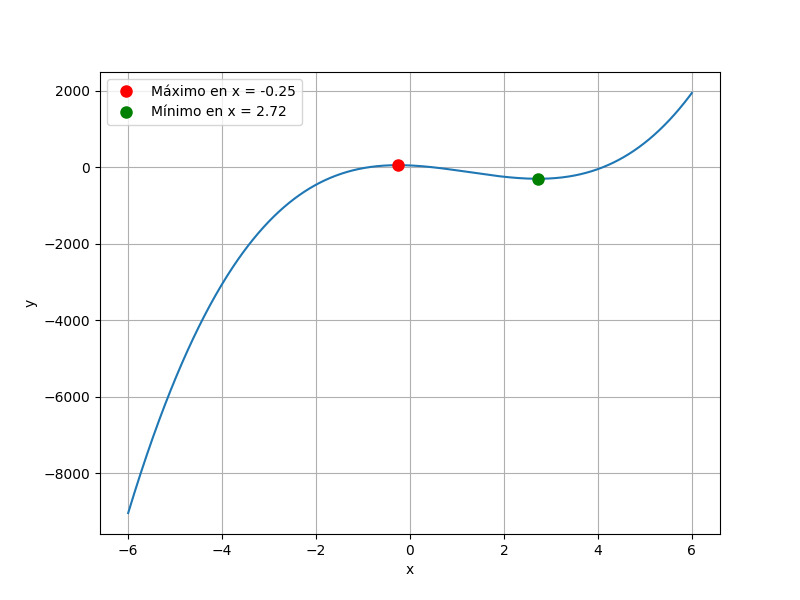
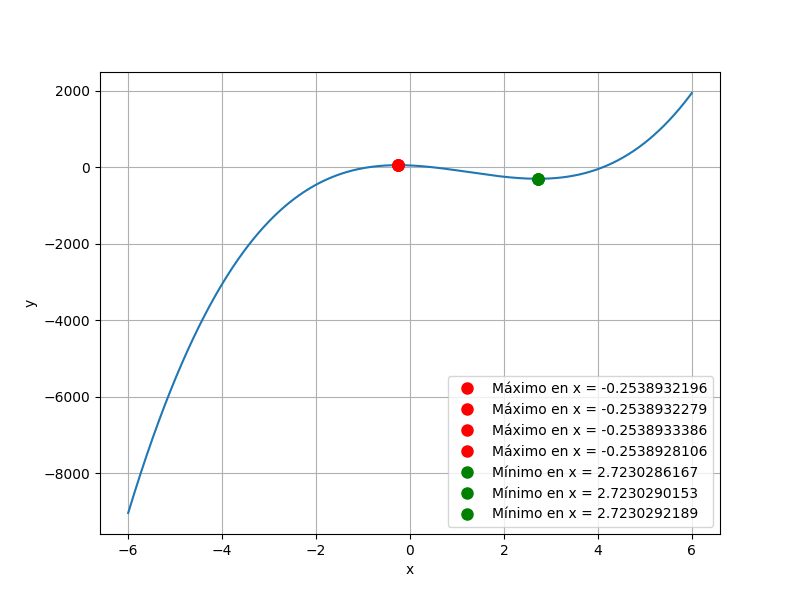
more points in problem1

Changed region(s): [[0.5625, 0.63, 0.9062, 0.87], [0.125, 0.12, 0.375, 0.21]]

diff --git a/Lab3/problema2.py b/Lab3/problema2.py
@@ -66,14 +66,21 @@ extremos_unicos = []
 
 # Filtrar extremos duplicados
 for extremo, es_minimo in extremos:
-    extremos_unicos.append((extremo, es_minimo))
+    es_duplicado = False
+    for ext_existente, i in extremos_unicos:
+        if abs(extremo - ext_existente) < 0.0001: 
+            es_duplicado = True
+            break
+    
+    if not es_duplicado:
+        extremos_unicos.append((extremo, es_minimo))
 
 # Graficar cada extremo 
 for extremo, es_minimo in extremos_unicos:
     if es_minimo:
-        plt.plot(extremo, f(extremo), 'go', markersize=8, label=f'Mínimo en x = {extremo:.10f}')
+        plt.plot(extremo, f(extremo), 'go', markersize=8, label=f'Mínimo en x = {extremo:.2f}')
     else:
-        plt.plot(extremo, f(extremo), 'ro', markersize=8, label=f'Máximo en x = {extremo:.10f}')
+        plt.plot(extremo, f(extremo), 'ro', markersize=8, label=f'Máximo en x = {extremo:.2f}')
 
 plt.xlabel('x')
 plt.ylabel('y')
